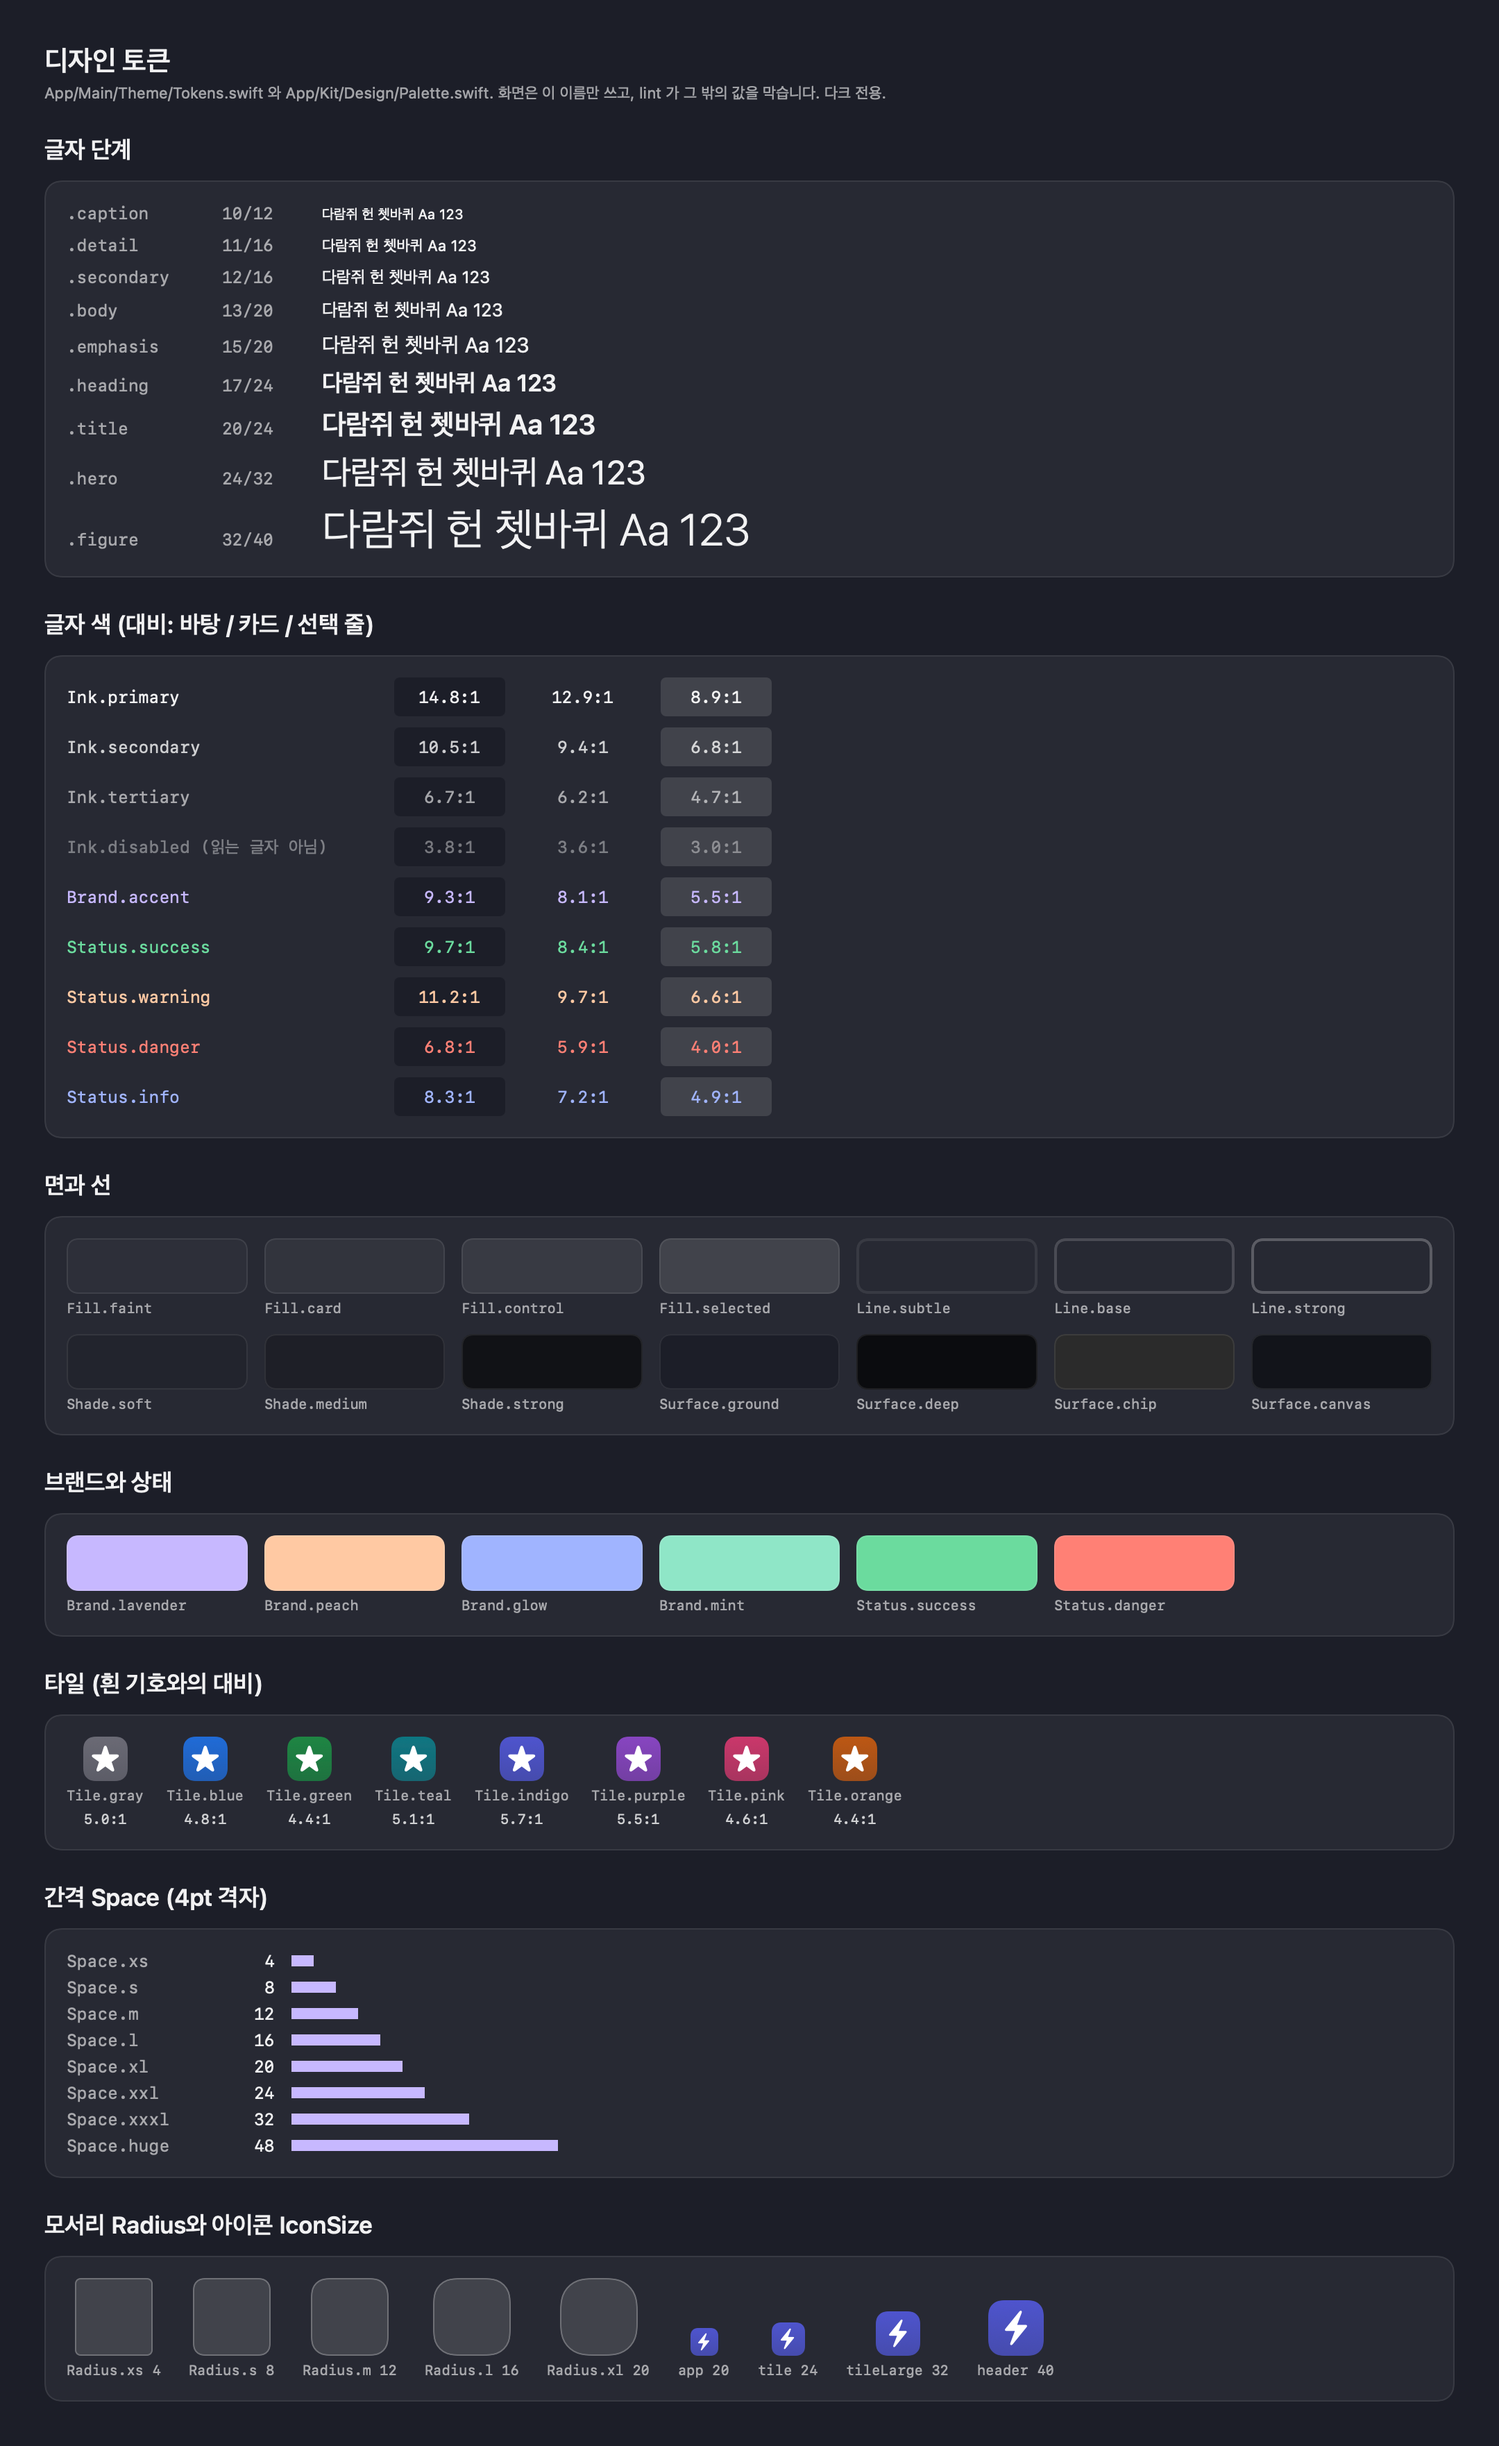
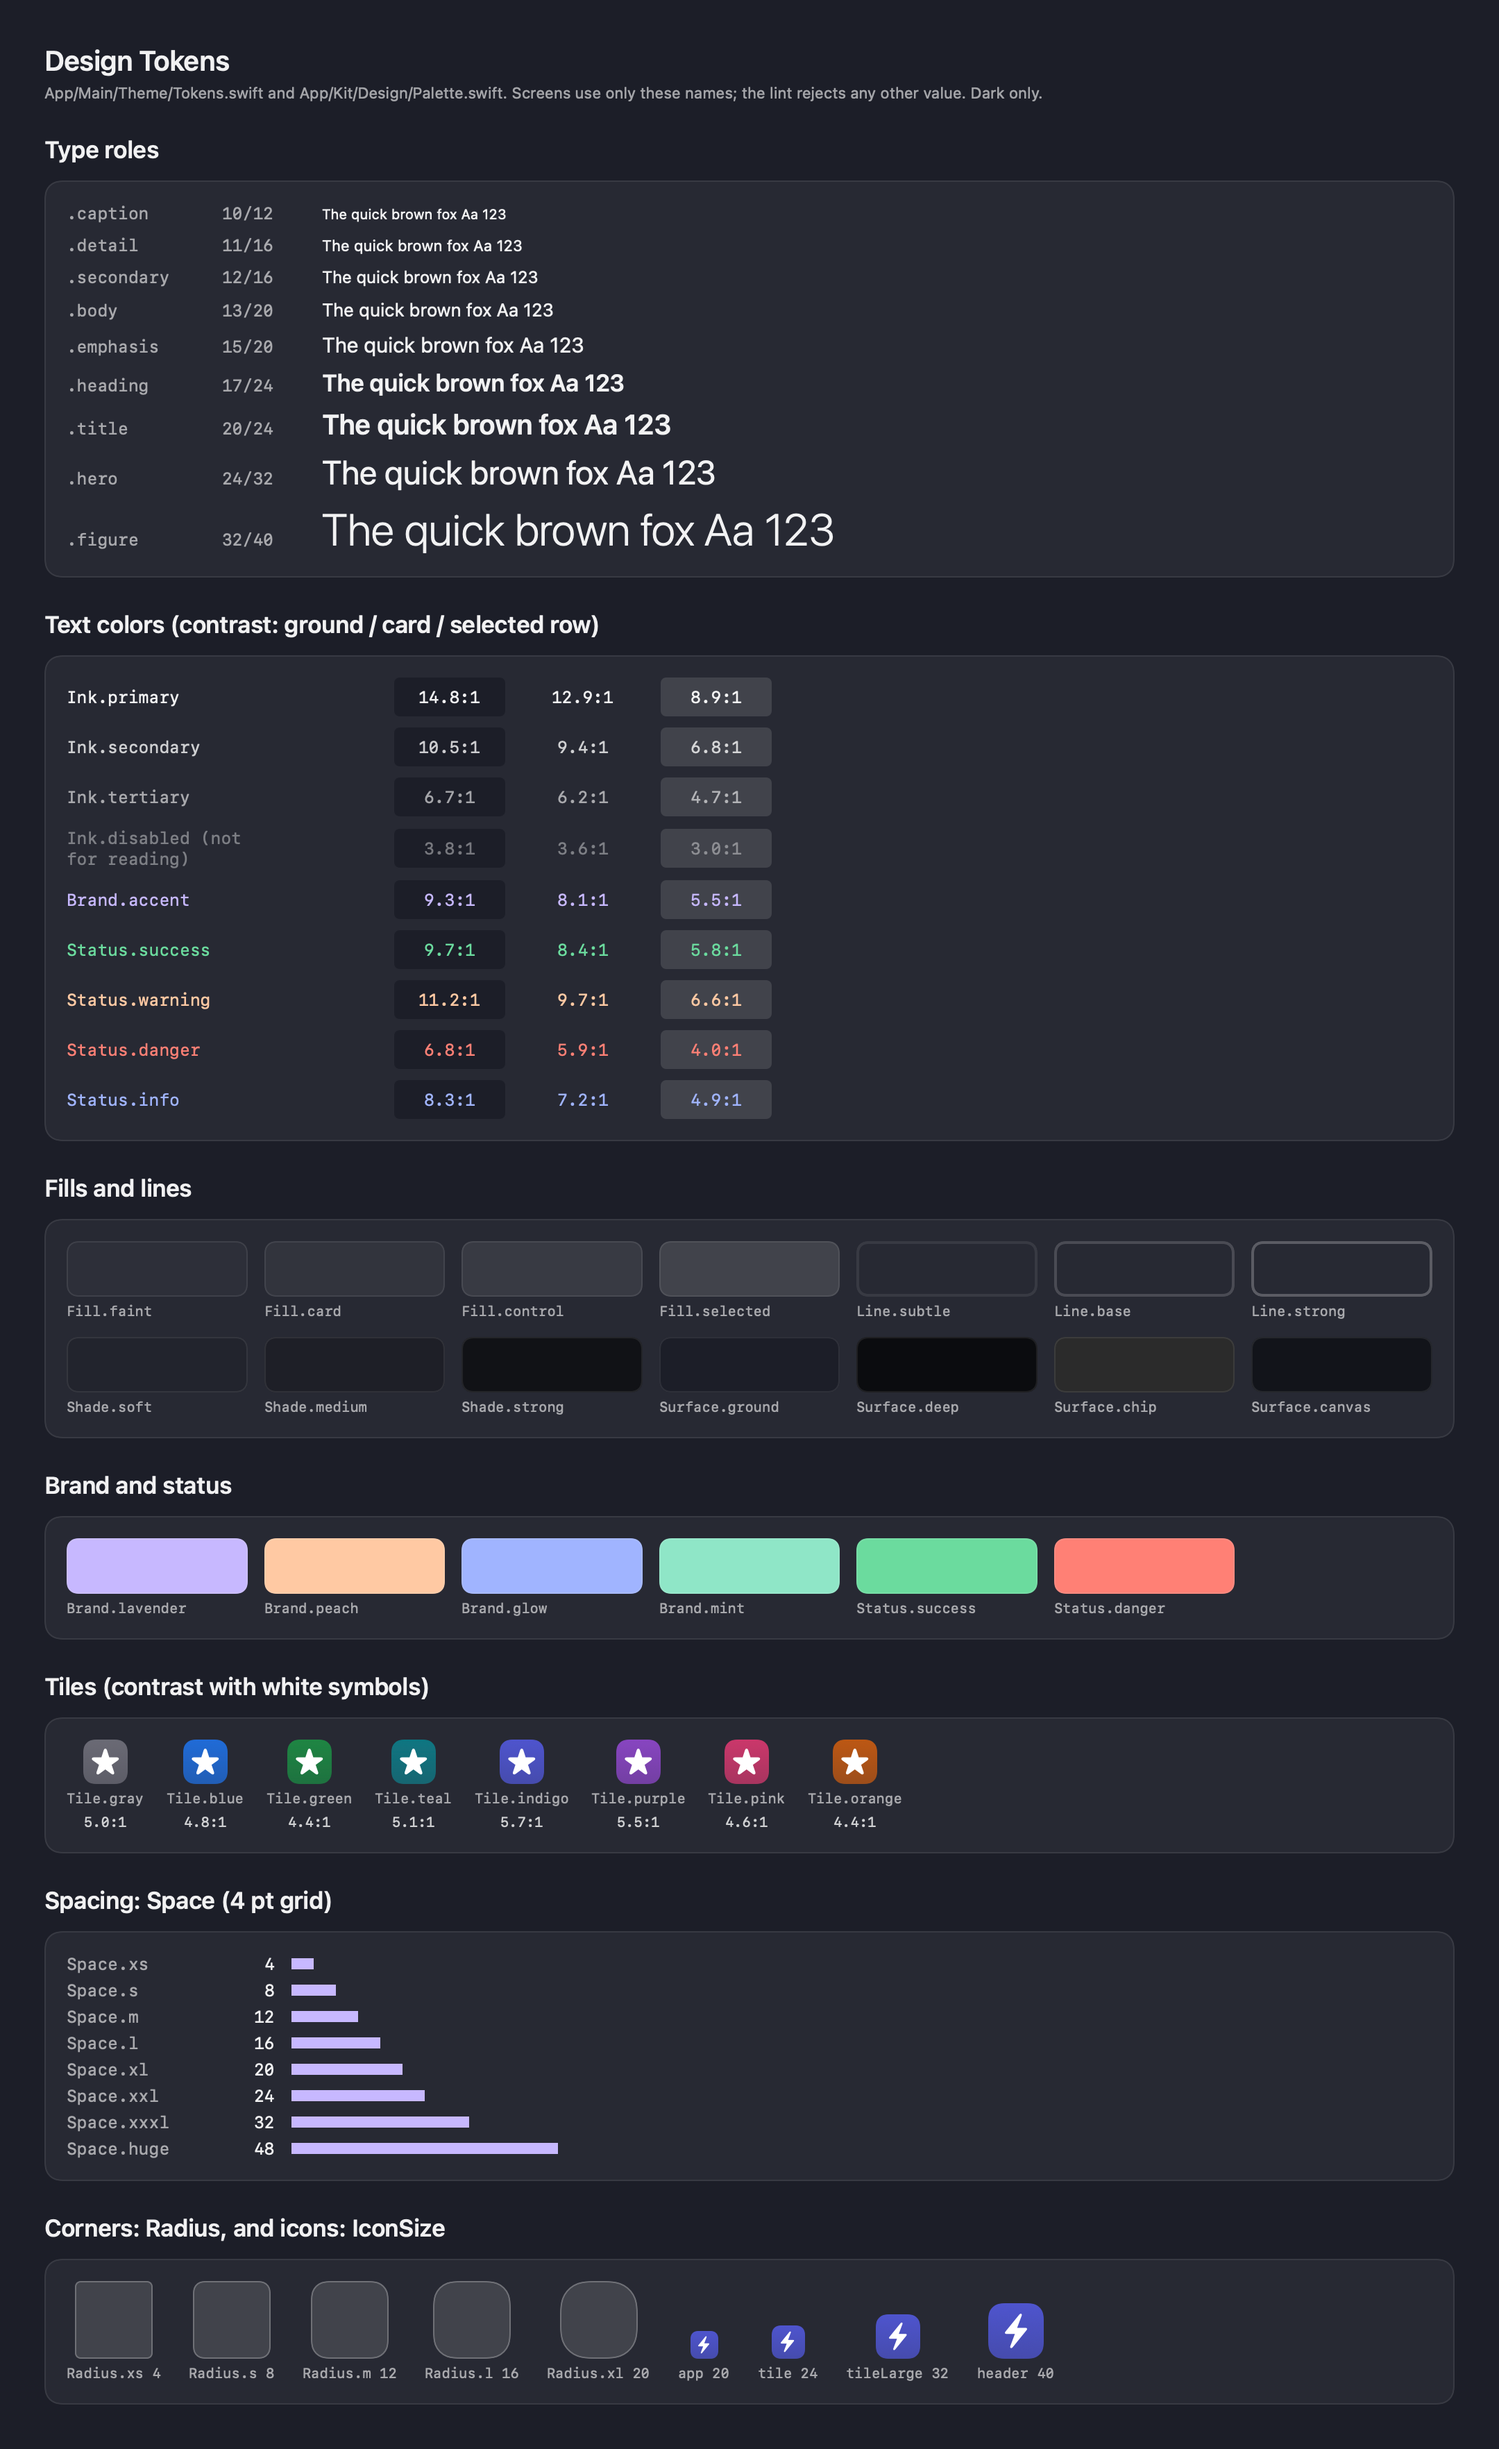
Redraw the README pictures in English and Korean
docs/images/en for README.md and docs/images/ko for README.ko.md: the menu
bar panel (system monitor, Sound), the launcher, clipboard history and
Settings > Features / Menu Bar, drawn by a development build from an empty
support folder with made-up content. The design token sheet is redrawn.

diff --git a/README.md b/README.md
@@ -14,22 +14,33 @@
 </p>
 
 <p align="center">
-  <!-- screenshot: the menu bar panel on the system monitor, details open beside it -->
-  <img src="docs/images/panel-monitor.png" width="820" alt="The menu bar panel showing the system monitor">
+  <img src="docs/images/en/panel-monitor.png" width="340" alt="The menu bar panel showing the system monitor">
+  <img src="docs/images/en/panel-sound.png" width="480" alt="The menu bar panel showing Sound">
 </p>
+<p align="center"><sub>The menu bar panel: the system monitor, and Sound with each app's volume, output and effects.</sub></p>
 
 ## Why
 
 Utility subscriptions bundle dozens of apps. Some of them almost do what you need; others do far more than you need; all of them cost every month. Toolsmith is the other way round: one app, the features as modules you switch on, and the source to change or extend any of them. A feature that is off does nothing at all: no background work, no permission prompts, no shortcuts, nothing in the menus.
 
-> The interface is in Korean for now. Translations are welcome.
+The app speaks English and Korean. It follows your Mac's language, or choose one in Settings → General → Language.
 
 ## Features
 
-Every feature is a module you can turn off in Settings → 기능.
+Every feature is a module you can turn off in Settings → Features.
 
 - **Launcher.** Press <kbd>⌥</kbd> <kbd>Space</kbd> anywhere for a dark glass prompt. Open apps, run any action by name (Korean initial-consonant search works), press <kbd>⌘</kbd> + a number to run a row. Every shortcut can be reassigned.
 - **Clipboard history.** <kbd>⌥</kbd> <kbd>V</kbd> opens everything you copied: text, links, images and files, with previews. Search, pin, paste into the app you were in. Passwords, apps you exclude and copies from your iPhone are never recorded. History stays on your Mac until you clear it or choose a period.
+<p align="center">
+  <img src="docs/images/en/launcher.png" width="560" alt="The launcher finding window layouts">
+</p>
+<p align="center"><sub>The launcher: type part of a name in English or Korean, press ↵ or ⌘ + a number.</sub></p>
+
+<p align="center">
+  <img src="docs/images/en/clipboard.png" width="820" alt="Clipboard history">
+</p>
+<p align="center"><sub>Clipboard history (⌥V): what you copied, newest first, with the app it came from.</sub></p>
+
 - **Snippets.** Save messages you write again and again and paste them into the app in use. Put `{name}` in the text and you are asked for the value when you paste.
 - **Window snapping.** 18 layouts (halves, thirds, quarters, center, next display, restore) from the launcher or shortcuts.
 - **Screen capture and recording.** Area, window, full-screen and scrolling captures, annotation, text recognition, color picker, pixel ruler, MP4 and GIF recording.
@@ -40,9 +51,13 @@ Every feature is a module you can turn off in Settings → 기능.
 
 ### One menu bar panel
 
-Every menu bar item opens the same panel on its feature's page: the monitor, the latest copies, capture actions. Choose which items show, their order, their style (icon, value, graph) and whether they share one slot, with a live preview in Settings → 메뉴 막대.
+Every menu bar item opens the same panel on its feature's page: the monitor, the latest copies, capture actions. Choose which items show, their order, their style (icon, value, graph) and whether they share one slot, with a live preview in Settings → Menu Bar.
 
-<!-- screenshot: Settings → 기능 and Settings → 메뉴 막대 -->
+<p align="center">
+  <img src="docs/images/en/settings-features.png" width="410" alt="Settings, Features">
+  <img src="docs/images/en/settings-menu-bar.png" width="410" alt="Settings, Menu Bar">
+</p>
+<p align="center"><sub>Settings → Features switches whole features on and off; Settings → Menu Bar picks the items, their order and their style.</sub></p>
 
 ## Install
 
@@ -62,7 +77,7 @@ Or by hand:
 2. Open it and drag **Toolsmith** to Applications.
 3. Launch it. A short guide asks for Accessibility (window snapping and pasting) and the optional permissions.
 
-Releases are signed with a Developer ID and notarized by Apple, and update themselves from this repository's releases (Settings → 정보 can turn that off).
+Releases are signed with a Developer ID and notarized by Apple, and update themselves from this repository's releases (Settings → About can turn that off).
 
 ## Privacy
 

diff --git a/README.ko.md b/README.ko.md
@@ -14,13 +14,16 @@
 </p>
 
 <p align="center">
-  <!-- 스크린샷: 메뉴 막대 패널의 시스템 모니터, 옆에 자세히 보기 -->
-  <img src="docs/images/panel-monitor.png" width="820" alt="시스템 모니터를 보여 주는 메뉴 막대 패널">
+  <img src="docs/images/ko/panel-monitor.png" width="340" alt="시스템 모니터를 보여 주는 메뉴 막대 패널">
+  <img src="docs/images/ko/panel-sound.png" width="480" alt="소리 화면을 보여 주는 메뉴 막대 패널">
 </p>
+<p align="center"><sub>메뉴 막대 패널: 시스템 모니터, 그리고 앱마다 볼륨, 보낼 곳, 효과를 바꾸는 소리 화면.</sub></p>
 
 ## 왜 만들었나
 
 구독형 유틸리티 묶음에는 앱이 수십 개 들어 있습니다. 어떤 것은 필요한 일을 거의 하지만 조금 모자라고, 어떤 것은 필요 이상으로 많은 일을 하고, 모두 매달 돈이 나갑니다. Toolsmith 는 그 반대입니다. 앱은 하나이고, 기능은 켜고 끄는 모듈이며, 어떤 기능이든 고치거나 늘릴 수 있게 소스가 열려 있습니다. 끈 기능은 정말로 아무것도 하지 않습니다. 백그라운드 작업, 권한 요청, 단축키, 메뉴 항목 모두 없습니다.
+
+앱은 영어와 한국어로 보입니다. 맥의 언어를 따르고, 설정 → 일반 → 언어 에서 직접 고를 수도 있습니다.
 
 ## 기능
 
@@ -28,6 +31,16 @@
 
 - **입력창.** 어디서든 <kbd>⌥</kbd> <kbd>Space</kbd> 로 어두운 유리 입력창을 띄웁니다. 앱을 열고, 동작을 이름으로 찾아 실행하고(초성 검색 됨), <kbd>⌘</kbd> + 숫자로 그 줄을 바로 실행합니다. 모든 단축키를 바꿀 수 있습니다.
 - **클립보드 기록.** <kbd>⌥</kbd> <kbd>V</kbd> 로 복사한 글, 링크, 그림, 파일을 미리보기와 함께 엽니다. 찾고, 고정하고, 쓰던 앱에 붙입니다. 비밀번호, 제외한 앱, 아이폰에서 복사한 것은 남기지 않습니다. 기록은 직접 지우거나 보관 기간을 정할 때까지 이 맥에만 남습니다.
+<p align="center">
+  <img src="docs/images/ko/launcher.png" width="560" alt="화면 배치를 찾는 입력창">
+</p>
+<p align="center"><sub>입력창: 이름 일부를 한국어나 영어로 치고 ↵ 나 ⌘ + 숫자를 누릅니다.</sub></p>
+
+<p align="center">
+  <img src="docs/images/ko/clipboard.png" width="820" alt="클립보드 기록">
+</p>
+<p align="center"><sub>클립보드 기록(⌥V): 복사한 것을 최근 순으로, 복사한 앱과 함께 보여 줍니다.</sub></p>
+
 - **스니펫.** 자주 쓰는 문장을 저장해 쓰던 앱에 바로 붙입니다. `{이름}` 을 넣으면 붙일 때 값을 묻습니다.
 - **화면 나누기.** 절반, 3분의 1, 4분의 1, 가운데, 다음 화면, 되돌리기 등 18가지 배치를 입력창이나 단축키로.
 - **화면 캡처와 녹화.** 영역, 창, 전체 화면, 스크롤 캡처, 주석, 글자 인식, 색 고르기, 픽셀 자, MP4 와 GIF 녹화.
@@ -40,7 +53,11 @@
 
 메뉴 막대의 어느 항목을 눌러도 같은 패널이 그 기능 화면으로 열립니다(모니터, 최근 복사, 캡처 동작). 어떤 항목을 어떤 순서와 모양(아이콘, 수치, 그래프)으로 보일지, 한 칸으로 묶을지를 설정 → 메뉴 막대 에서 미리보기를 보며 고릅니다.
 
-<!-- 스크린샷: 설정 → 기능, 설정 → 메뉴 막대 -->
+<p align="center">
+  <img src="docs/images/ko/settings-features.png" width="410" alt="설정, 기능">
+  <img src="docs/images/ko/settings-menu-bar.png" width="410" alt="설정, 메뉴 막대">
+</p>
+<p align="center"><sub>설정 → 기능 에서 기능을 통째로 켜고 끄고, 설정 → 메뉴 막대 에서 항목, 순서, 모양을 고릅니다.</sub></p>
 
 ## 설치
 
